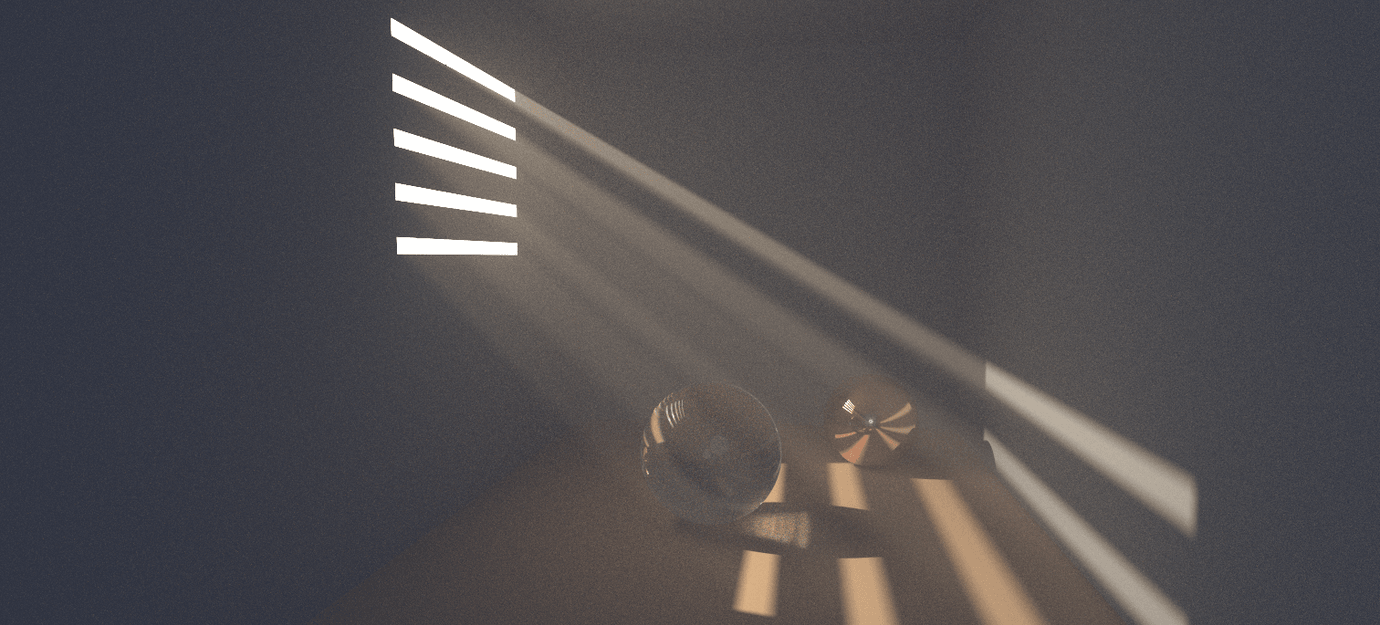
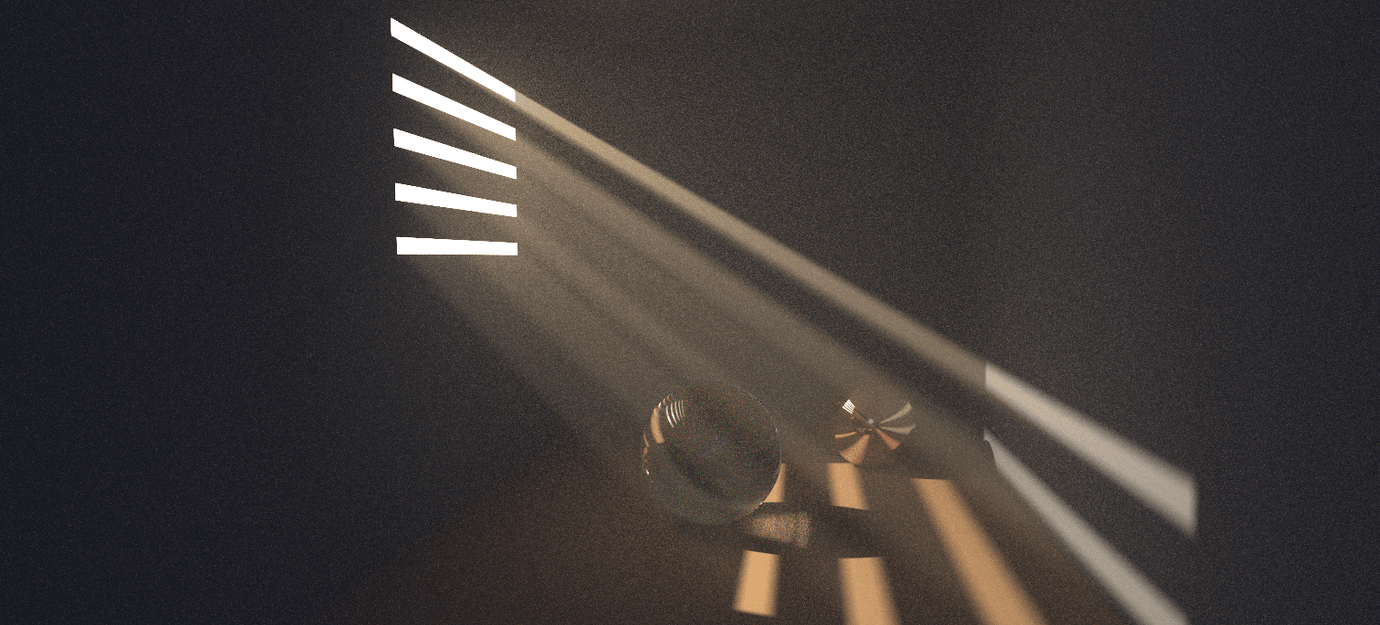
anotherRaytracer: contrast control (default 1.25), darker shafts room so beams stand out

diff --git a/anotherRaytracer/scenes.js b/anotherRaytracer/scenes.js
@@ -211,9 +211,10 @@ function shaftsScene() {
   // The room spans x 0 to 100, y 0 to 100, and z from -100 forward. The front
   // is open. The window is in the left wall, at y 40 to 80 and z -50 to 0.
   const big = 1000;
-  // Cool walls and a warm floor, against warm late-afternoon light
-  const gray = [0.32, 0.37, 0.45];
-  const floor = [0.5, 0.4, 0.3];
+  // Cool walls and a warm floor, against warm late-afternoon light. Dark,
+  // so little light bounces around to fill the fog with haze.
+  const gray = [0.2, 0.23, 0.3];
+  const floor = [0.32, 0.25, 0.18];
   const wall = {oneSided: true};
   // The left wall is two-sided, so it blocks the light outside it
   /** @type {(y0: number, y1: number, z0: number, z1: number) => Shape} */
@@ -237,10 +238,10 @@ function shaftsScene() {
     leftWall(40, 80, -big, -50), // behind it
     leftWall(40, 80, 0, big), // in front of it
     // Outside, small and far, so the beams have sharp edges
-    sphere(1.5, [-120, 150, -30], [170000, 130000, 85000], LIGHT),
+    sphere(1.5, [-120, 150, -30], [220000, 170000, 110000], LIGHT),
     // Dim blue sky behind the camera, through the open front, so shadows
     // and fog outside the beams are cool
-    sphere(30, [50, 60, 260], [1.5, 2.5, 5], LIGHT),
+    sphere(30, [50, 60, 260], [0.8, 1.4, 3.2], LIGHT),
     sphere(12, [45, 12, -20], [0.95, 0.95, 0.95], GLASS),
     sphere(10, [75, 10, -60], [0.95, 0.64, 0.54], MIRROR), // copper
   ];

diff --git a/anotherRaytracer/main.js b/anotherRaytracer/main.js
@@ -34,6 +34,8 @@ const defaults = {
   fog: 0,
   /** Brightens or darkens the display, in stops (doublings) */
   exposure: 0,
+  /** Over 1 deepens shadows and brightens highlights; see applyContrast in shaders.js */
+  contrast: 1.25,
   /**
    * Depth of field: the camera lens's radius, as a fraction of the distance
    * in focus. 0 keeps everything sharp. Click the image to focus.
@@ -157,7 +159,7 @@ const displayPipeline = device.createRenderPipeline({
   fragment: {module: displayModule, targets: [{format: 'rgba16float'}]},
 });
 
-// Params in shaders.js: 4 × (vec3f + u32), then 15 scalars, padded to 16 bytes
+// Params in shaders.js: 4 × (vec3f + u32), then 16 scalars
 const paramsData = new ArrayBuffer(128);
 const paramsF32 = new Float32Array(paramsData);
 const paramsU32 = new Uint32Array(paramsData);
@@ -371,6 +373,7 @@ const render = (trace = true) => {
   paramsF32[28] = camera.focus;
   paramsU32[29] = lightCount;
   paramsU32[30] = +(settings.sequence === 'sobol');
+  paramsF32[31] = settings.contrast;
   device.queue.writeBuffer(paramsBuffer, 0, paramsData);
 
   const encoder = device.createCommandEncoder();
@@ -608,6 +611,10 @@ display
     saveSettings();
     redraw = true;
   });
+display.add(settings, 'contrast', 0.5, 2, 0.05).onChange(() => {
+  saveSettings();
+  redraw = true;
+});
 display.add(view, 'hdr').name('HDR (h)').onChange(saveHdr).listen();
 display
   .add(view, 'toneMapping')

diff --git a/anotherRaytracer/shaders.js b/anotherRaytracer/shaders.js
@@ -70,6 +70,8 @@ struct Params {
   lightCount: u32,
   /** 1 to use the Sobol sequence for the first few random choices; see rand2 */
   sobol: u32,
+  /** The display's contrast; see applyContrast */
+  contrast: f32,
 }
 
 @group(0) @binding(0) var<uniform> params: Params;
@@ -842,10 +844,20 @@ fn toneMap(x: vec3f) -> vec3f {
   return select(x, eased, x > vec3f(KNEE));
 }
 
+/**
+ * Over 1, darkens what's darker than middle gray and brightens what's
+ * brighter, by raising brightness relative to middle gray to this power.
+ * Each channel separately, so colors get a bit richer too.
+ */
+const MIDDLE_GRAY = 0.18;
+fn applyContrast(x: vec3f) -> vec3f {
+  return MIDDLE_GRAY * pow(max(x, vec3f(0.)) / MIDDLE_GRAY, vec3f(params.contrast));
+}
+
 @fragment
 fn fragment(@builtin(position) pos: vec4f) -> @location(0) vec4f {
   let s = sums[u32(pos.y) * params.width + u32(pos.x)];
-  var color = s.rgb / max(s.w, 1.) * params.exposure;
+  var color = applyContrast(s.rgb / max(s.w, 1.) * params.exposure);
   if (params.toneMap == 1u) { color = toneMap(color); }
   if (params.showTiles == 1u && tiles[tileIndex(vec2u(pos.xy))] == 1u) {
     color = mix(color, vec3f(1., 0., 0.), 0.3);
